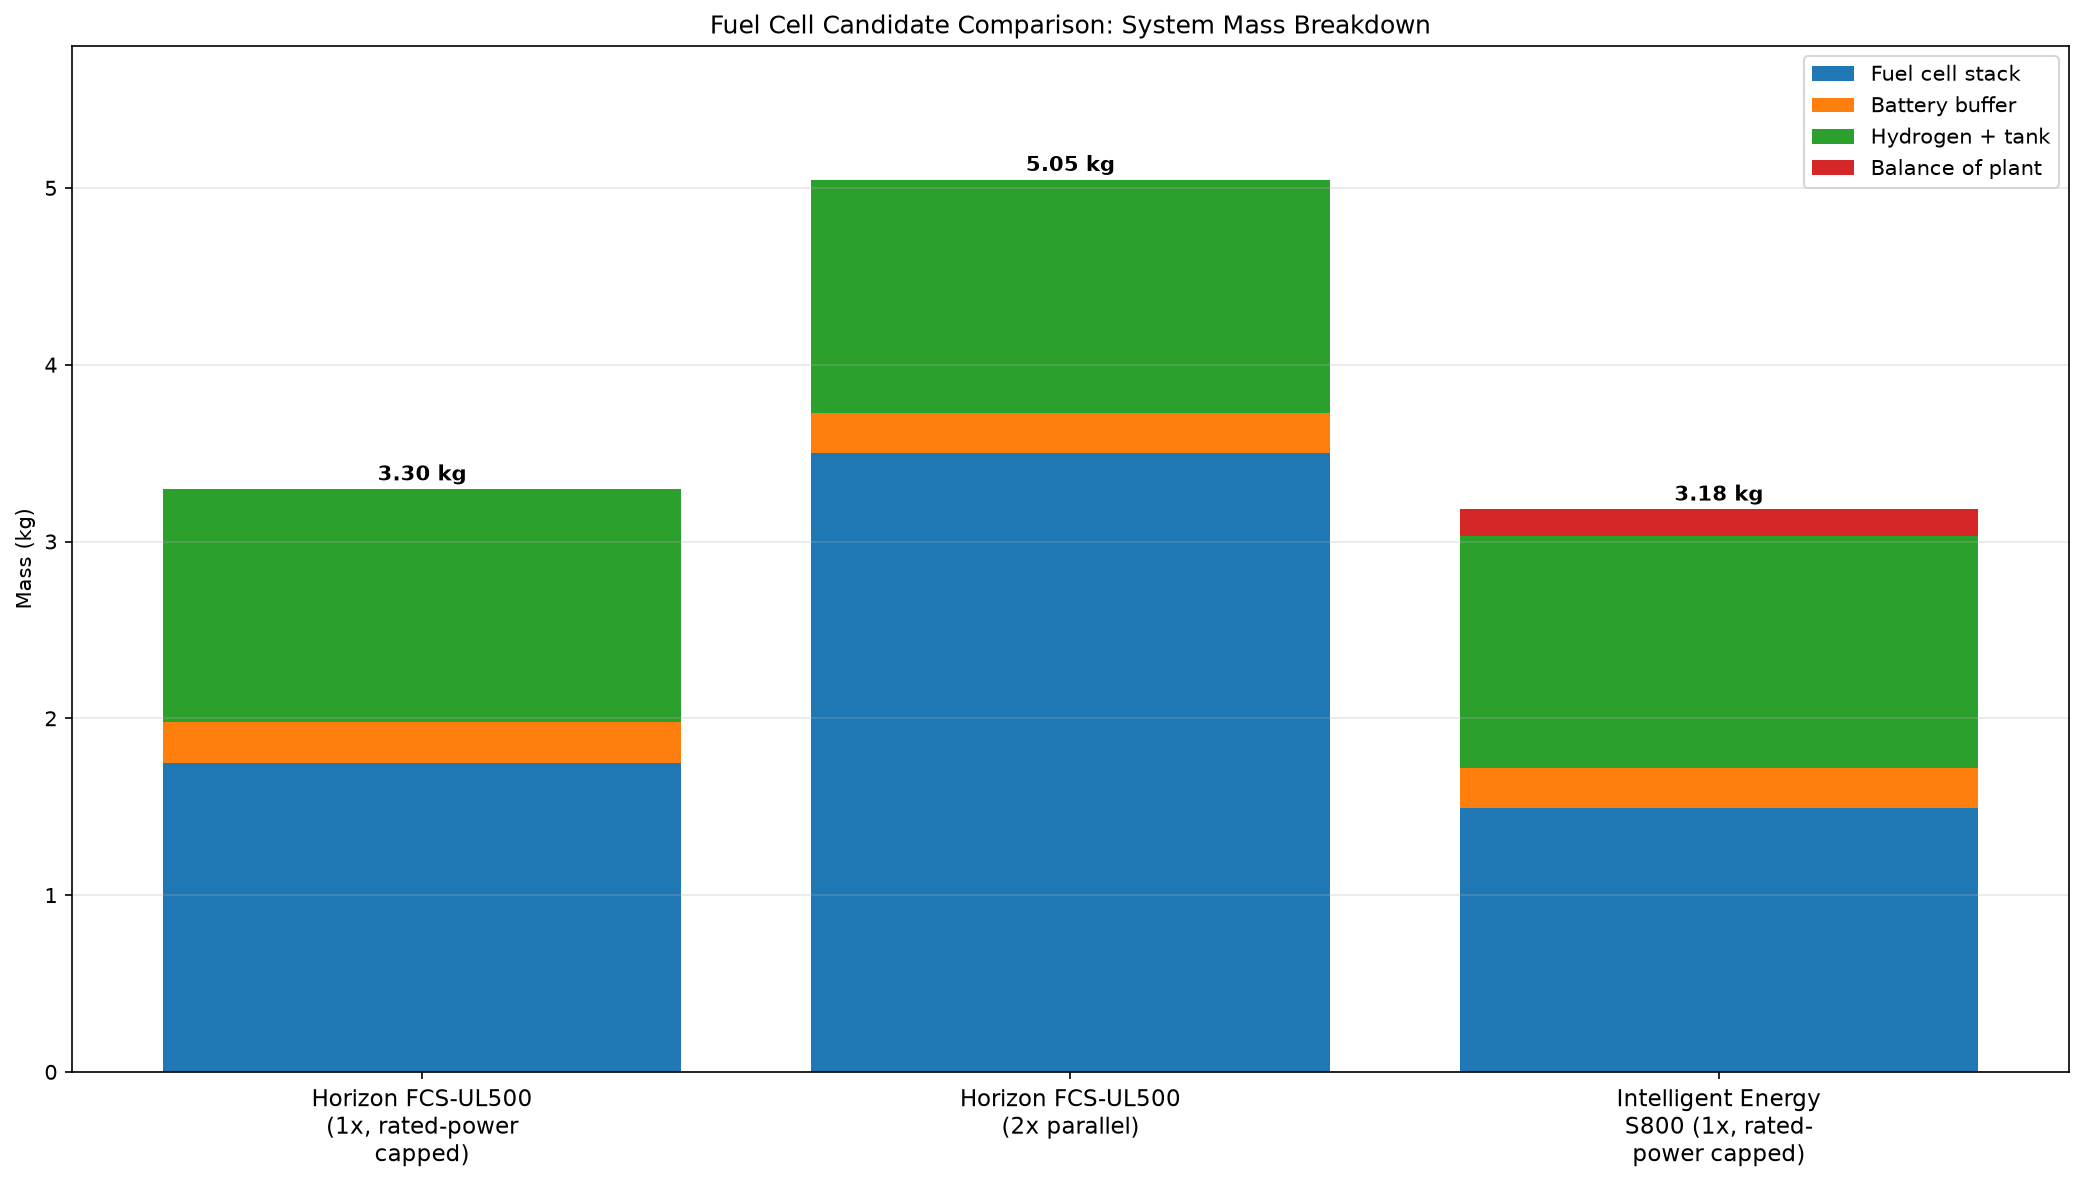
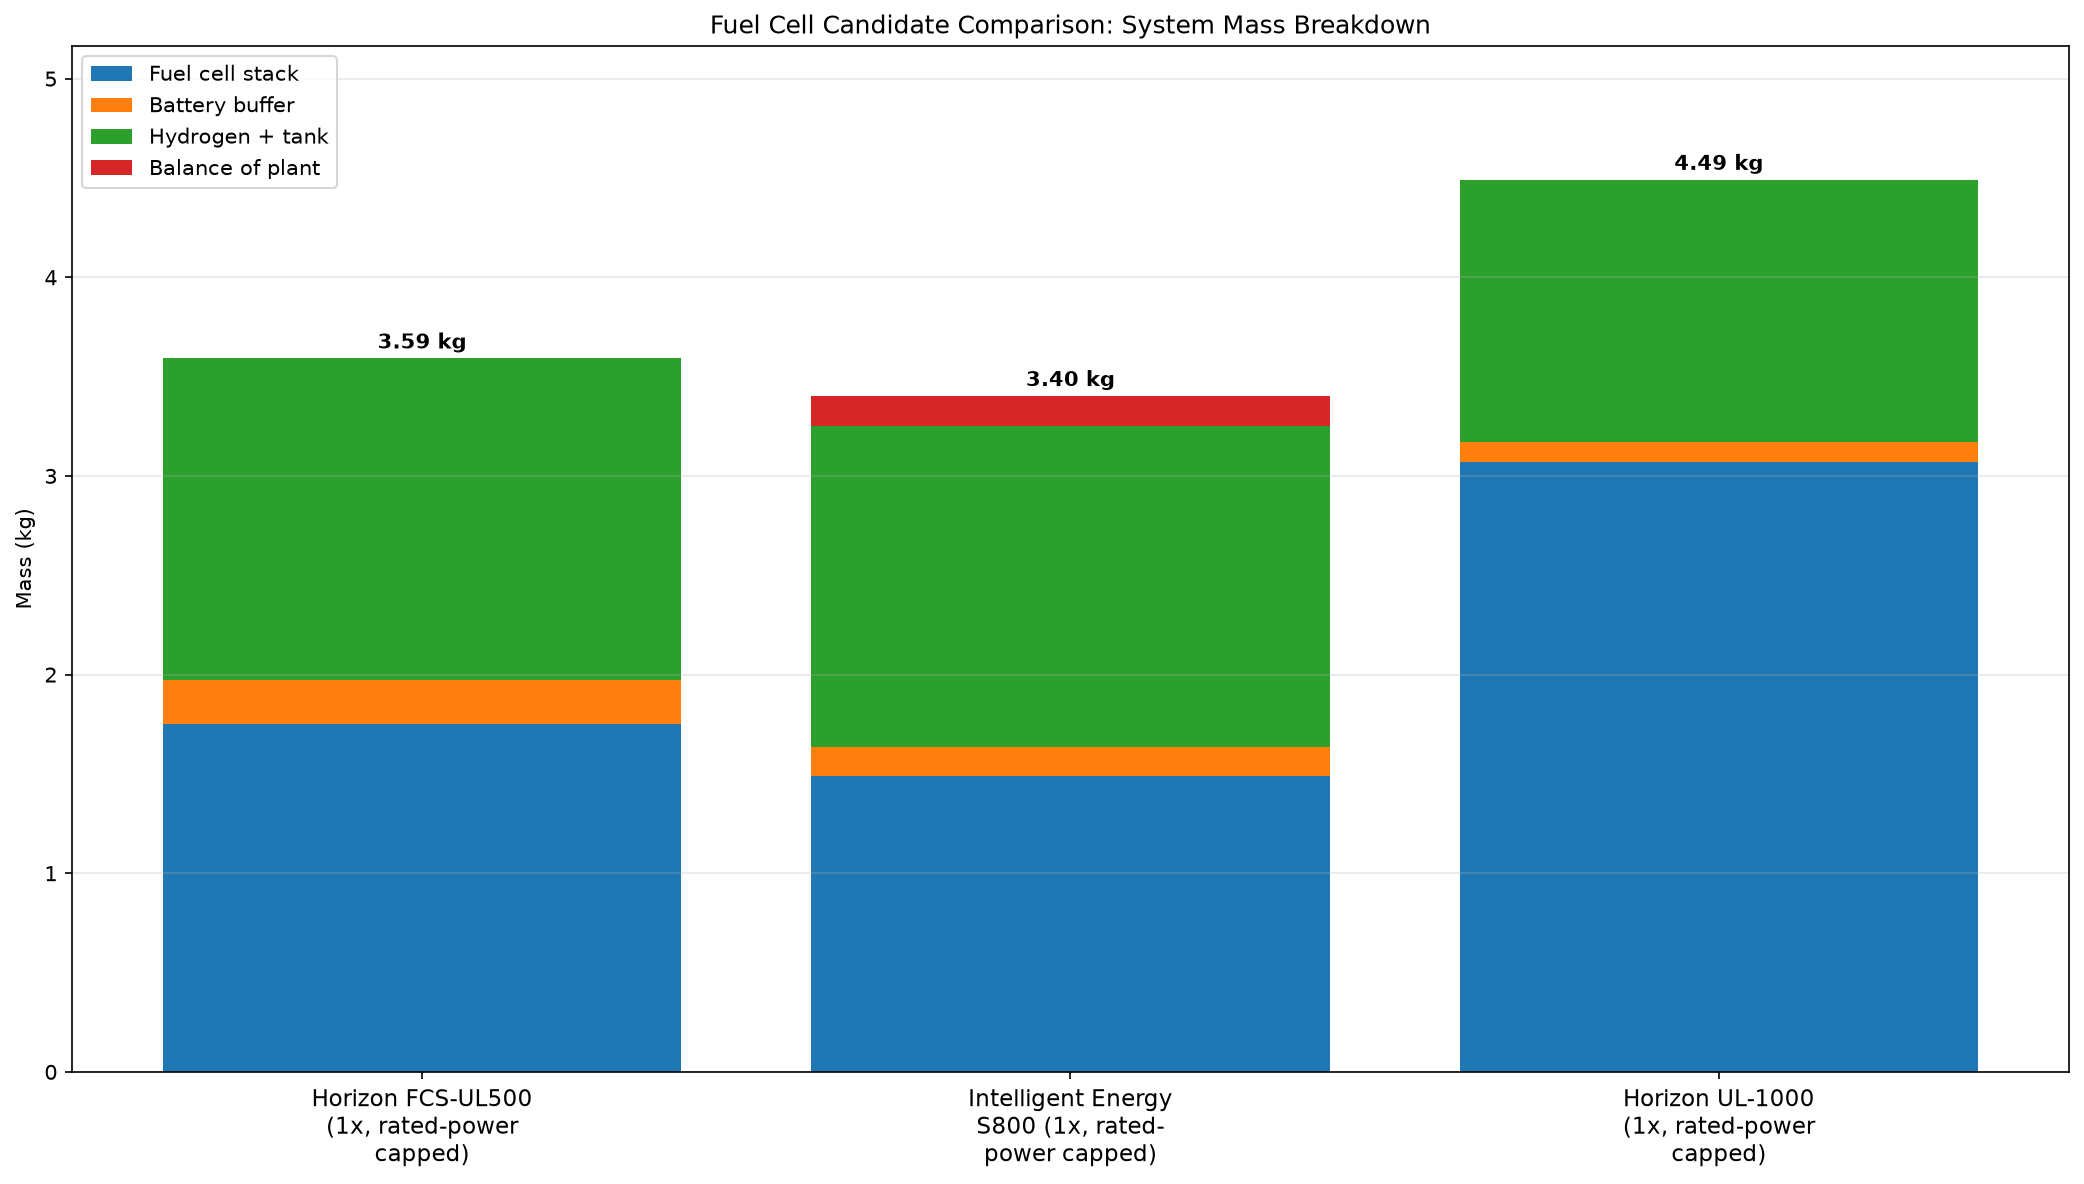
Add UL1000 specs

diff --git a/src/compare_fuel_cells.py b/src/compare_fuel_cells.py
@@ -105,6 +105,25 @@ def size_with_profile(profile_key, peak_power_w, total_energy_wh,
     return result
 
 
+def size_with_best_cylinder(profile_key, peak_power_w, total_energy_wh, mass_budget_kg,
+                             preferred_cylinder_key="xfiber_s3", fallback_cylinder_key="xfiber_s2",
+                             **kwargs):
+    """
+    Try the preferred (larger) cylinder first; if the resulting system exceeds
+    the mass budget, fall back to the smaller cylinder instead. Larger
+    cylinders carry more hydrogen margin for a given mission, so they're
+    preferred whenever the mass budget allows it.
+    """
+    result = size_with_profile(profile_key, peak_power_w, total_energy_wh,
+                                mass_budget_kg=mass_budget_kg,
+                                cylinder_key=preferred_cylinder_key, **kwargs)
+    if result["total_system_mass_kg"] > mass_budget_kg:
+        result = size_with_profile(profile_key, peak_power_w, total_energy_wh,
+                                    mass_budget_kg=mass_budget_kg,
+                                    cylinder_key=fallback_cylinder_key, **kwargs)
+    return result
+
+
 def print_result(result):
     print(f"\n--- {result['fuel_cell_name']} ---")
     print(f"Fuel cell stack power required: {result['fuel_cell_stack_power_w']:.1f} W "
@@ -173,34 +192,35 @@ if __name__ == "__main__":
 
     results = []
 
-    # Config 1: single UL500, capped at its real 500W rating -> bigger battery buffer covers the rest
-    result_1 = size_with_profile(
-        "horizon_fcs_ul500", peak_power_w, total_energy_wh,
+    # Config 1: single UL500 (500W cap) -> 832W buffer -> needs >=1249mAh
+    result_1 = size_with_best_cylinder(
+        "horizon_fcs_ul500", peak_power_w, total_energy_wh, mass_budget_kg=4.0,
         use_rated_power_cap=True, num_units=1,
         label_suffix=" (1x, rated-power capped)",
-        cylinder_key="xfiber_s2", mass_budget_kg=4.0, battery_key="ovonic_150c_1400mah",
+        battery_key="cnhl_130c_1300mah",
     )
     print_result(result_1)
     results.append(result_1)
 
-    # Config 2: two UL500s in parallel, capped at 2x500W = 1000W combined
-    result_2 = size_with_profile(
-        "horizon_fcs_ul500", peak_power_w, total_energy_wh,
-        use_rated_power_cap=True, num_units=2,
-        label_suffix=" (2x parallel)",
-        cylinder_key="xfiber_s2", mass_budget_kg=4.0, battery_key="ovonic_150c_1400mah",
+    # Config 2: IE S800 (800W cap) -> 532W buffer -> needs >=799mAh
+    result_2 = size_with_best_cylinder(
+        "ie_s800", peak_power_w, total_energy_wh, mass_budget_kg=4.0,
+        use_rated_power_cap=True, num_units=1,
+        label_suffix=" (1x, rated-power capped)",
+        battery_key="gnb_120c_930mah",
     )
     print_result(result_2)
     results.append(result_2)
 
-    # Config 3: IE S800, capped at its real 800W rating
-    result_3 = size_with_profile(
-        "ie_s800", peak_power_w, total_energy_wh,
+    # Config 3: single UL-1000 (1000W cap) -> 332W buffer -> needs >=498mAh
+    result_3 = size_with_best_cylinder(
+        "horizon_ul1000", peak_power_w, total_energy_wh, mass_budget_kg=4.0,
         use_rated_power_cap=True, num_units=1,
         label_suffix=" (1x, rated-power capped)",
-        cylinder_key="xfiber_s2", mass_budget_kg=4.0, battery_key="ovonic_150c_1400mah",
+        battery_key="gnb_80c_550mah",
     )
     print_result(result_3)
     results.append(result_3)
 
     plot_comparison(results, save_path="../notebooks/fuel_cell_comparison.png")
+    

diff --git a/src/battery_profiles.py b/src/battery_profiles.py
@@ -22,6 +22,46 @@ BATTERY_PROFILES = {
         "specific_energy_wh_per_kg": (1.4 * 22.2) / 0.227,  # ~137 Wh/kg
         "specific_power_w_per_kg": (1.4 * 150 * 22.2) / 0.227,  # ~20,536 W/kg (theoretical max)
         "connector": "XT60",
+        "url": "https://rcdrone.top/de/products/ovonic-150c-racing-lipo-battery",
+    },
+    "cnhl_130c_1300mah": {
+        "name": "CNHL Black Series V2.0 6S 1300mAh 130C",
+        "capacity_ah": 1.3,
+        "voltage_v": 22.2,
+        "discharge_rate_c": 130,
+        "mass_kg": 0.223,
+        "max_continuous_current_a": 1.3 * 130,  # 169 A
+        "max_continuous_power_w": 1.3 * 130 * 22.2,
+        "specific_energy_wh_per_kg": (1.3 * 22.2) / 0.223,
+        "specific_power_w_per_kg": (1.3 * 130 * 22.2) / 0.223,
+        "connector": "XT60",
+        "url": "https://www.racedayquads.com/products/cnhl-black-series-v2-0-1300mah-22-2v-130c-6s-lipo-battery-xt60",
+    },
+    "gnb_80c_550mah": {
+        "name": "Gaoneng GNB 6S 550mAh 80/160C",
+        "capacity_ah": 0.55,
+        "voltage_v": 22.2,
+        "discharge_rate_c": 80,
+        "mass_kg": 0.102,
+        "max_continuous_current_a": 0.55 * 80,  # 44 A
+        "max_continuous_power_w": 0.55 * 80 * 22.2,
+        "specific_energy_wh_per_kg": (0.55 * 22.2) / 0.102,
+        "specific_power_w_per_kg": (0.55 * 80 * 22.2) / 0.102,
+        "connector": "XT30",
+        "url": "https://pyrodrone.com/products/gaoneng-gnb-22-2v-550mah-80-160c-6s-lipo-battery-jst-xt30",
+    },
+    "gnb_120c_930mah": {
+        "name": "Gaoneng GNB 6S 930mAh 120C",
+        "capacity_ah": 0.93,
+        "voltage_v": 22.2,
+        "discharge_rate_c": 120,
+        "mass_kg": 0.148,
+        "max_continuous_current_a": 0.93 * 120,  # ~112 A
+        "max_continuous_power_w": 0.93 * 120 * 22.2,
+        "specific_energy_wh_per_kg": (0.93 * 22.2) / 0.148,
+        "specific_power_w_per_kg": (0.93 * 120 * 22.2) / 0.148,
+        "connector": "XT30",
+        "url": "https://www.gaoneng.shop/products/gaoneng-gnb-6s-22.2v-930mah-120c-xt30-connector-lipo-battery",
     },
 }
 

diff --git a/src/fuel_cell_profiles.py b/src/fuel_cell_profiles.py
@@ -33,6 +33,16 @@ FUEL_CELL_PROFILES = {
         "voltage_range_v": (25, 50),
         "notes": "Includes redundant hybrid battery architecture natively.",
     },
+    "horizon_ul1000": {
+        "name": "Horizon UL-1000",
+        "rated_power_w": 1000,
+        "mass_kg": 3.070,  # measured: stack+housing+blowers+valves (2266g) + controller+cables+LCD+dissipation plate (728g) + tubes/screws/fittings/H2 connectors (76g)
+        "specific_power_w_per_kg": 1000 / 3.070,
+        "system_efficiency": 0.40,  # H-1000 datasheet: 40% at 43V (same family as UL500)
+        "bop_fraction_of_stack": 0.0,  # tubes/fittings/H2 connectors already included in mass_kg above
+        "voltage_range_v": (39, 69),
+        "notes": "Larger sibling of the UL500. Mass includes full accessory kit (tubes, fittings, H2 connectors).",
+    },
 }
 
 
